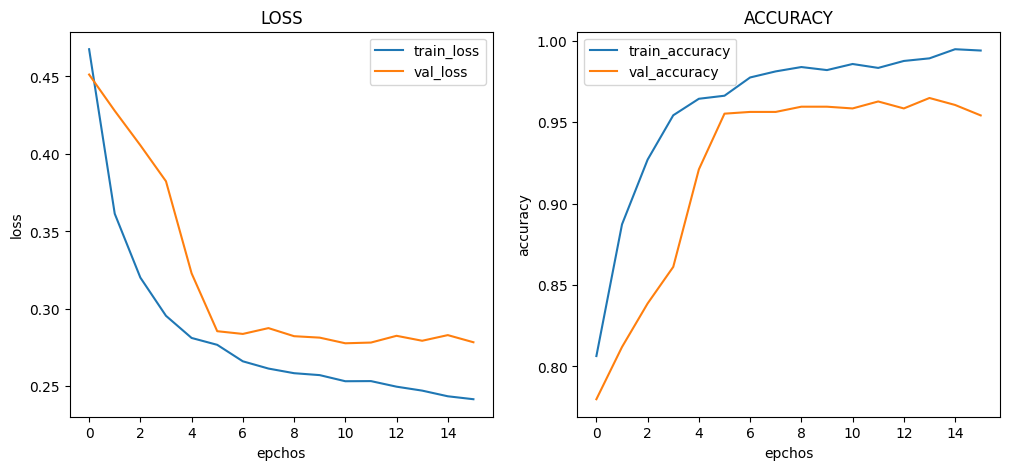
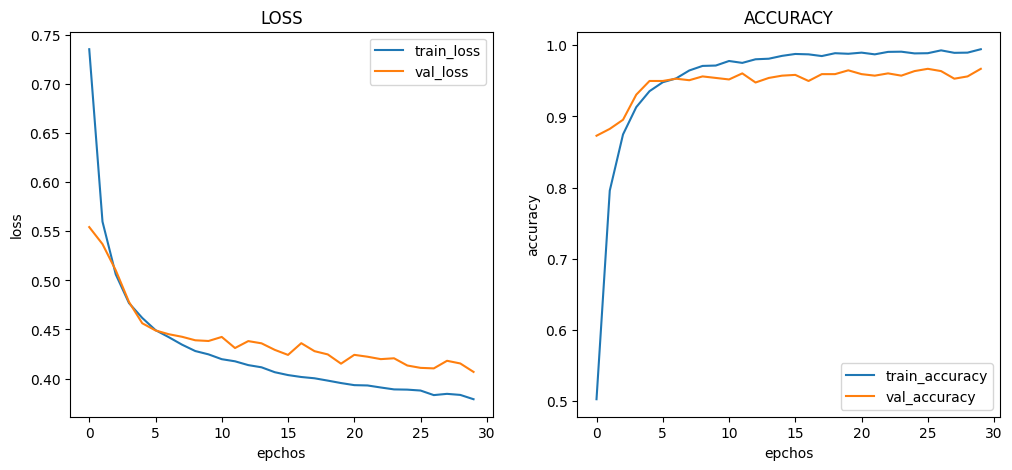
20230627 README.md X-Ray

diff --git a/KaggleProject-Chest X-Ray Images (Pneumonia)/README.md b/KaggleProject-Chest X-Ray Images (Pneumonia)/README.md
@@ -30,48 +30,46 @@
 
 ### 4.1. MobileNet
 ![](./graph/MobileNet_loss_acc_graph.png)
-- Train : [loss: 0.4888, acc: 0.9880]
-- Validation : [loss: 0.4954, val_acc: 0.9744]
-- Test : [loss: 0.4937 - acc: 0.9769]
-- Learning Time :  0:33:43.225520
+- Train : [loss: 0.5690, acc: 0.9813]
+- Validation : [loss: 0.5734, val_acc: 0.9712]
+- Test : [loss: 0.5749 - acc: 0.9692]
+- Learning Time :  0:33:44.058732
 
 </br>
 
 ### 4.2. InceptionV3
 ![](./graph/InceptionV3_loss_acc_graph.png)
-loss: 0. - acc: 0. - val_loss: 0. - val_acc: 0.
-Learning Time :  
-37/37 [==============================] - 17s 462ms/step - loss: 0. - acc: 0.
-- Train : [loss: 0.2417, acc: 0.9939]
-- Validation : [loss: 0.2784, val_acc: 0.9541]
-- Test : [loss: 0.2783 - acc: 0.9556]
-- Learning Time :  0:19:59.704119
-- Early Stopping : Epoch 16/30
+- Train : [loss: 0.3789, acc: 0.9944]
+- Validation : [loss: 0.4068, val_acc: 0.9669]
+- Test : [loss: 0.4074 - acc: 0.9632]
+- Learning Time :  0:36:07.468925
+
+</br>
 
 ### 4.3. Xception
 ![](./graph/Xception_loss_acc_graph.png)
-- Train : [loss: 0.1125, acc: 0.9444]
-- Validation : [loss: 0.0670, val_acc: 0.9840]
-- Test : [loss: 0.0406 - acc: 0.9912]
-- Learning Time :  0:57:58.333981
+- Train : [loss: 0.3558, acc: 0.9909]
+- Validation : [loss: 0.3773, val_acc: 0.9658]
+- Test : [loss: 0.3791 - acc: 0.9641]
+Learning Time :  0:41:51.795174
 
 </br>
 
 ### 4.4. ResNet50
 ![](./graph/ResNet50_loss_acc_graph.png)
-- Train : [loss: 0.0862, acc: 0.9448]
-- Validation : [loss: 0.0270, val_acc: 0.9935]
-- Test : [loss: 0.0145 - acc: 0.9960]
-- Learning Time :  0:54:44.536932
+- Train : [loss: 0.3706, acc: 0.9939]
+- Validation : [loss: 0.3799, val_acc: 0.9797]
+- Test : [loss: 0.3826 - acc: 0.9769]
+Learning Time :  0:38:43.774339
 
 </br>
 
 ### 4.5. VGG16
 ![](./graph/VGG16_loss_acc_graph.png)
-- Train : [loss: 0.1831, acc: 0.8877]
-- Validation : [loss: 0.0137, val_acc: 0.9960]
-- Test : [loss: 0.0189 - acc: 0.9944]
-- Learning Time :  1:00:10.589472
+- Train : [loss: 0.4479, acc: 0.9301]
+- Validation : [loss: 0.4453, val_acc: 0.9615]
+- Test : [loss: 0.4426 - acc: 0.9675]
+Learning Time :  0:36:44.323282
 
 </br>
 

diff --git a/README.md b/README.md
@@ -1,21 +1,22 @@
 # 한태성 포트폴리오
->캐치 프레이즈
+>데이터사이언티스트와 컨텐츠 큐레이션을 융합한 다양한 잠재력
 
 </br>
 
 ## :pushpin: Intro
-Taeseong Han (한태성)
-. M.S. Candidate
-. B.S., Industrial and Management Engineering, INU
-. Social Contents Curation
-. AILawyer(인공지능변호사)
-. Contents Extraction for Mobile
+>Taeseong Han (한태성)
+>
+>M.S. Candidate
+>B.S., Industrial and Management Engineering, INU
+>Social Contents Curation
+>AILawyer(인공지능변호사)
+>Contents Extraction for Mobile
 
 </br>
 
 ## :pushpin: Contact
-- 이메일: hantaeseong4@naver.com
-- 깃헙: https://github.com/hantaeseong00/
+>이메일: hantaeseong4@naver.com
+>깃헙: https://github.com/hantaeseong00/
 
 </br>
 
